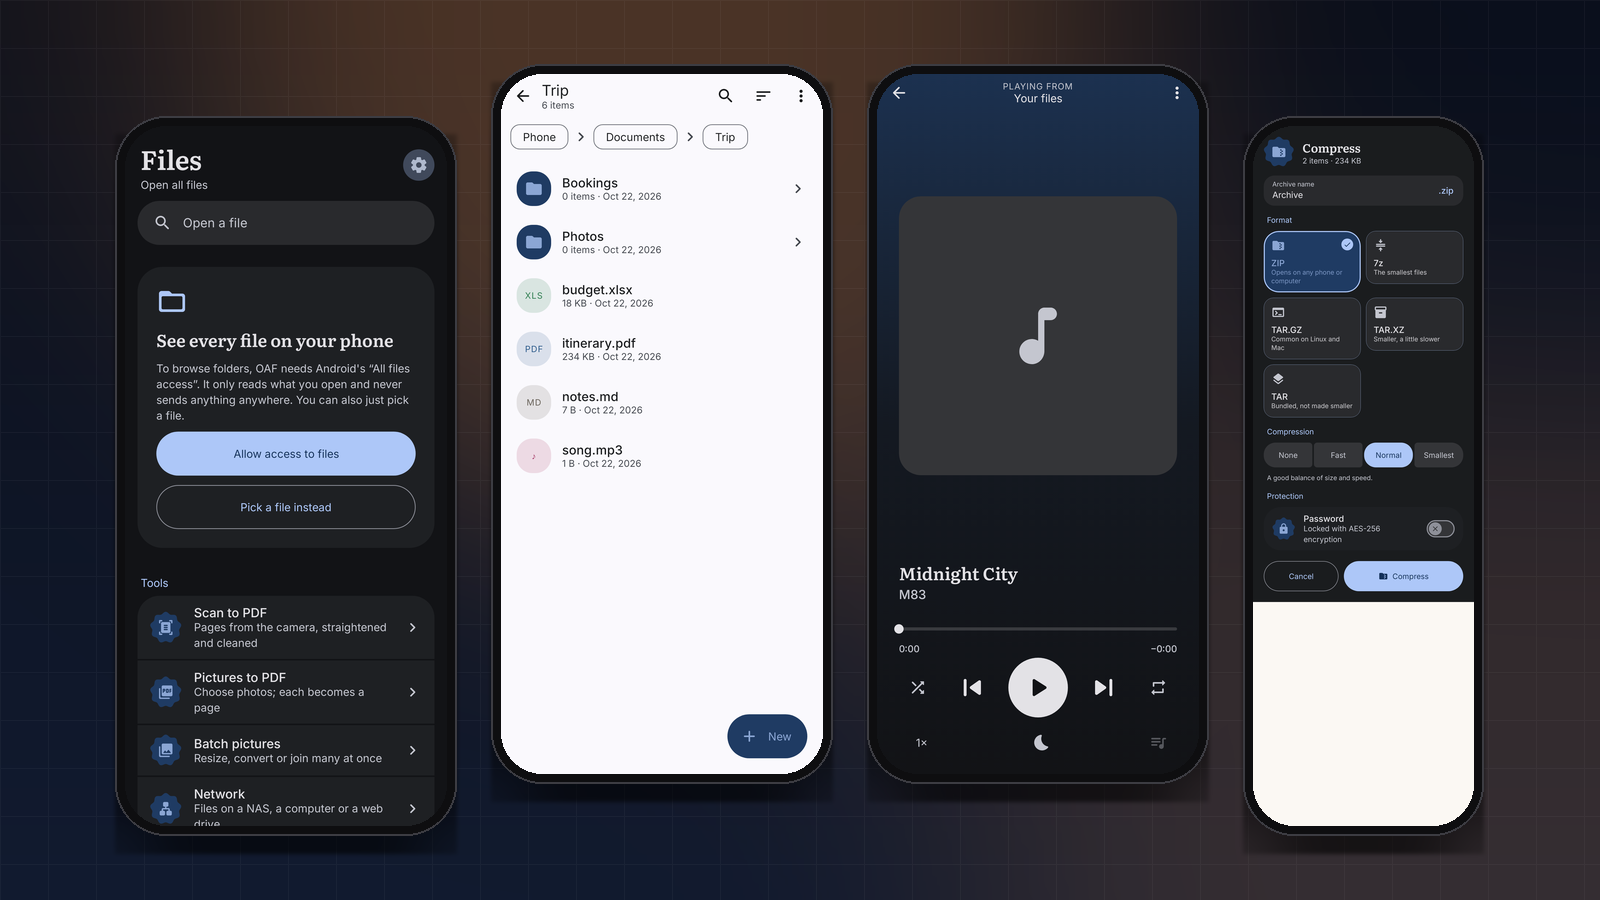
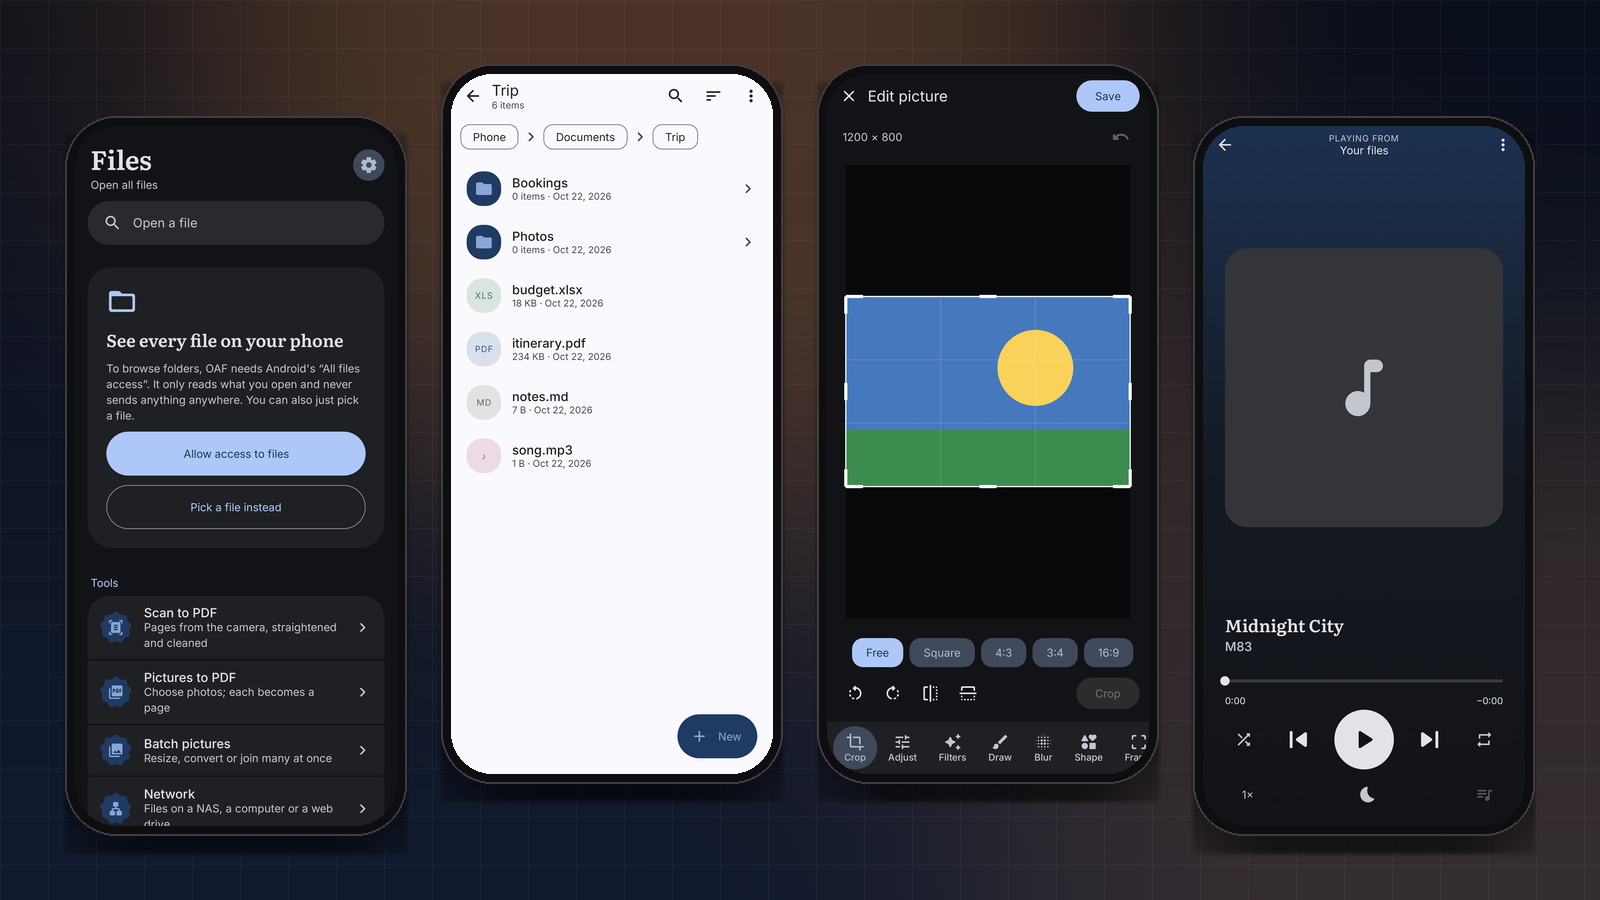
Draw the README diagrams as graphics

diff --git a/README.md b/README.md
@@ -22,7 +22,7 @@ the interface, and the bars slide away while you read. Open files from its own b
 from a network drive, or from any other app with *Open with*. Nothing is uploaded; it all happens on
 the phone.
 
-<p align="center"><img src=".github/assets/showcase.png" alt="OAF's home, a folder, the music player and the compress sheet" width="100%"></p>
+<p align="center"><img src=".github/assets/showcase.png" alt="OAF's home, a folder, the picture editor and the music player" width="100%"></p>
 <p align="center"><sub>Real screens, drawn by the app's own code.</sub></p>
 
 ## ✨ Highlights
@@ -182,6 +182,11 @@ into one APK. `ScreensTest` draws real screens to `app/build/screens`, including
 
 ## 🗂 Project layout
 
+<p align="center"><img src=".github/assets/modules.png" alt="OAF source packages and what each one does" width="100%"></p>
+
+<details>
+<summary><strong>As text</strong></summary>
+
 ```
 format/   file type detection (magic bytes, zip contents, text heuristics)
 files/    copy, move, rename, the bin, search inside files, clean-up, network drives, split APKs
@@ -197,6 +202,8 @@ pick/     OAF as a file picker for other apps
 engine/   which viewer opens which format
 ui/       Compose screens: browser, viewers, editors
 ```
+
+</details>
 
 ## 📄 License
 
